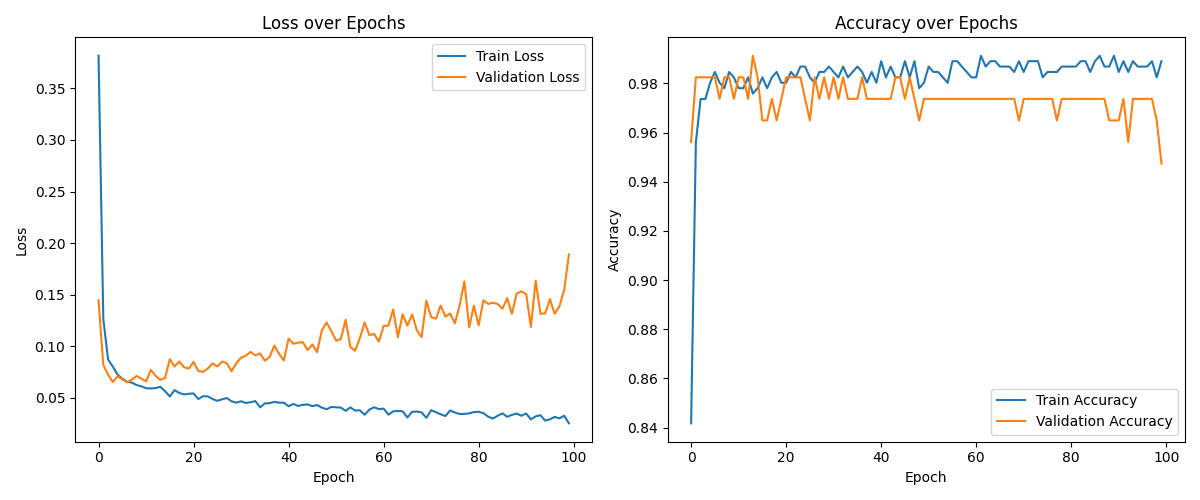
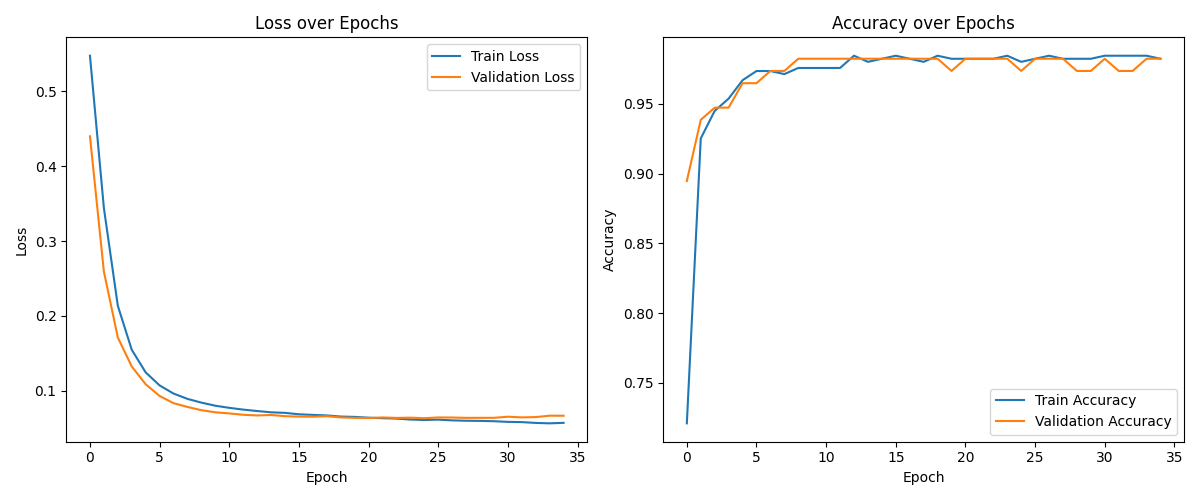
readme + visu and norm

diff --git a/train.py b/train.py
@@ -252,7 +252,10 @@ class mlp:
         plt.title('Accuracy over Epochs')
         plt.legend()
         plt.tight_layout()
+        plt.savefig('loss_n_acc_w_train_n_valid.png')
         plt.show()
+
+        
 
 def main():
     data_train = pd.read_csv("data_train.csv")
@@ -288,7 +291,7 @@ def main():
     history_df = pd.DataFrame(history)
     history_df.to_csv("train_history.csv", index=False)
 
-    # model.show_history(history)
+    model.show_history(history)
 
                 
 if __name__ == "__main__":

diff --git a/README.md b/README.md
@@ -1,0 +1,85 @@
+# Multilayer Perceptron - École 42
+
+Implémentation d'un **perceptron multicouche (MLP) entièrement codé _from scratch_**, sans aucune bibliothèque de machine learning, pour prédire si une tumeur du sein est **maligne (M)** ou **bénigne (B)** à partir du dataset *Breast Cancer Wisconsin* (30 features décrivant le noyau cellulaire d'une masse mammaire).
+
+L'objectif du projet est de comprendre et de réimplémenter les algorithmes au cœur de l'entraînement d'un réseau de neurones : **feedforward**, **backpropagation** et **descente de gradient**.
+
+## Aperçu
+
+![Courbes de loss et d'accuracy](loss_n_acc_w_train_n_valid.png)
+
+Courbes de *loss* et d'*accuracy* (entraînement vs. validation) générées à la fin de l'entraînement.
+
+## Architecture du réseau
+
+Réseau *feedforward* dense par défaut :
+
+| Couche | Neurones | Activation | Initialisation |
+| --- | --- | --- | --- |
+| Entrée | 30 (features) | — | — |
+| Cachée 1 | 24 | sigmoid | Glorot uniform |
+| Cachée 2 | 24 | sigmoid | Glorot uniform |
+| Sortie | 2 | softmax | Glorot uniform |
+
+- **Sortie softmax** → distribution de probabilité sur les deux classes (M / B).
+- **Loss** : categorical cross-entropy.
+- **Hyperparamètres par défaut** : learning rate `0.01`, batch size `8`, `100` epochs.
+
+Tout est implémenté à la main en NumPy : fonctions d'activation (ReLU, sigmoid, softmax) et leurs dérivées, initialiseurs de poids (Glorot / He uniform), fonctions de coût (categorical & binary cross-entropy), propagation avant et rétropropagation par mini-batch avec mélange (*shuffle*) des données à chaque epoch.
+
+## Structure du projet
+
+| Fichier | Rôle |
+| --- | --- |
+| `dataset.py` | Exploration et visualisation des features (*swarm/strip plots* par classe) |
+| `preproc.py` | Pré-traitement : standardisation (`StandardScaler`) et séparation train/validation stratifiée (80/20) |
+| `train.py` | Définition du MLP, entraînement, affichage et sauvegarde de l'historique |
+| `data.csv` | Dataset brut |
+| `data_train.csv` / `data_valid.csv` | Jeux d'entraînement et de validation générés |
+| `train_history.csv` | Historique des métriques par epoch |
+| `requirements.txt` | Dépendances |
+
+## Stack
+
+Python · NumPy · Pandas · Matplotlib · Seaborn · scikit-learn *(uniquement pour le scaling et le split, pas pour le modèle)*
+
+## Installation
+
+```bash
+pip install -r requirements.txt
+```
+
+## Utilisation
+
+```bash
+# 1. (Optionnel) Explorer et visualiser les données
+python dataset.py
+
+# 2. Pré-traiter : standardiser et générer data_train.csv / data_valid.csv
+python preproc.py
+
+# 3. Entraîner le modèle et afficher les courbes de loss / accuracy
+python train.py
+```
+
+À la fin de l'entraînement, les métriques (*loss* et *accuracy*, train + validation) sont affichées à chaque epoch, l'historique est sauvegardé dans `train_history.csv` et les courbes d'apprentissage sont tracées.
+
+## Compétences mises en œuvre
+
+- Réseaux de neurones et perceptron multicouche
+- Feedforward, backpropagation et descente de gradient (implémentés _from scratch_)
+- Algèbre linéaire et calcul de dérivées en NumPy
+- Pré-traitement de données : standardisation, séparation train/validation stratifiée
+- Analyse exploratoire et visualisation
+- Classification binaire et évaluation de modèle (loss, accuracy)
+
+## Concepts clés
+
+- **Feedforward** : propagation des données de la couche d'entrée vers la sortie.
+- **Backpropagation** : calcul du gradient de l'erreur couche par couche, de la sortie vers l'entrée.
+- **Descente de gradient** : mise à jour des poids et des biais dans la direction qui minimise la fonction de coût.
+- **Softmax** : transforme les sorties en distribution de probabilité pour la classification.
+
+---
+
+*Projet réalisé dans le cadre de la spécialisation Data Science & IA de l'École 42 Angoulême.*
